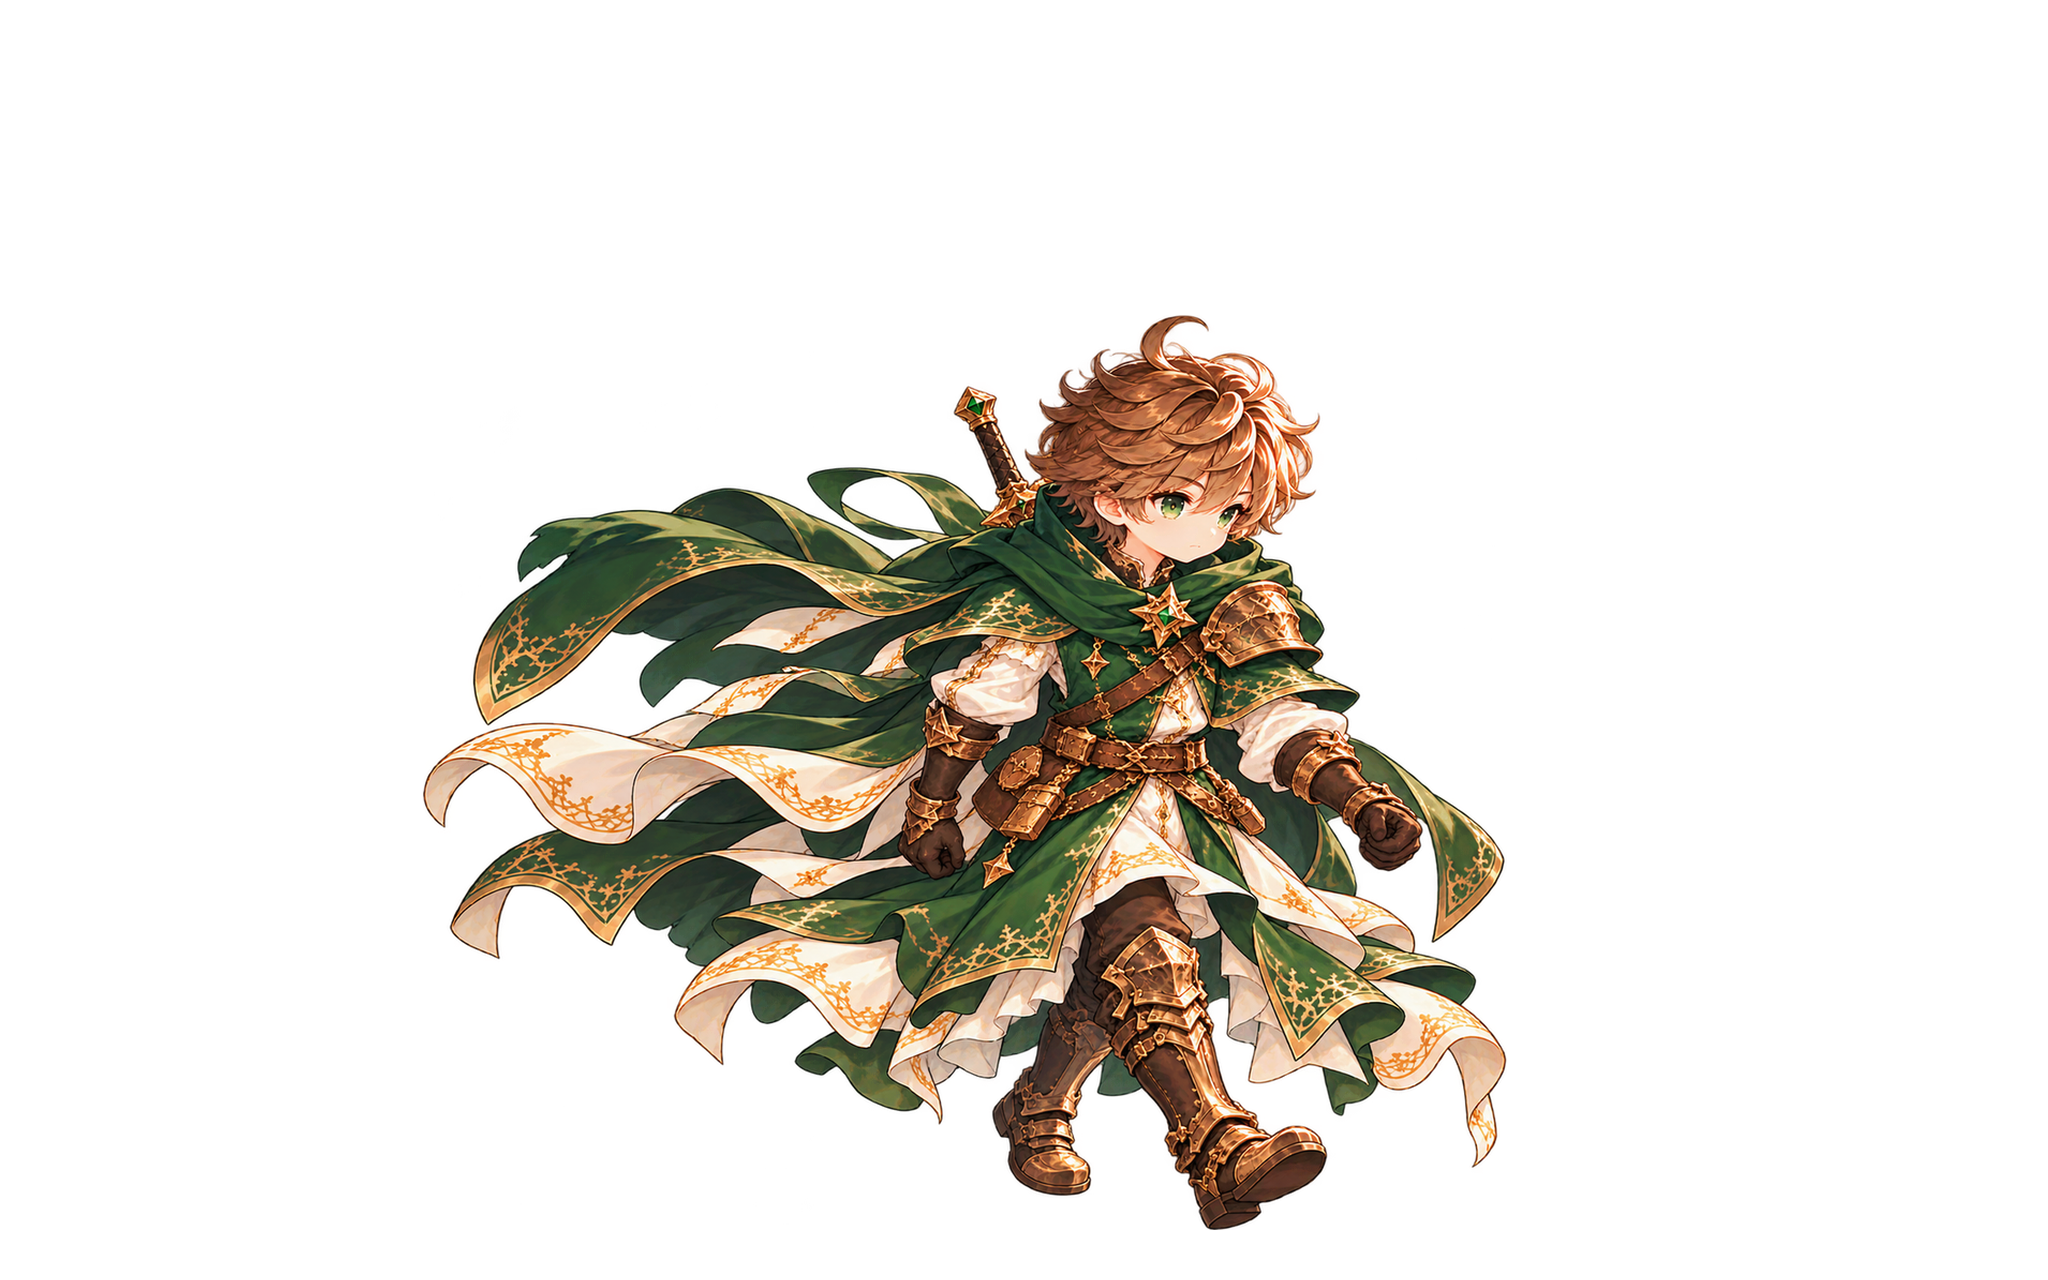
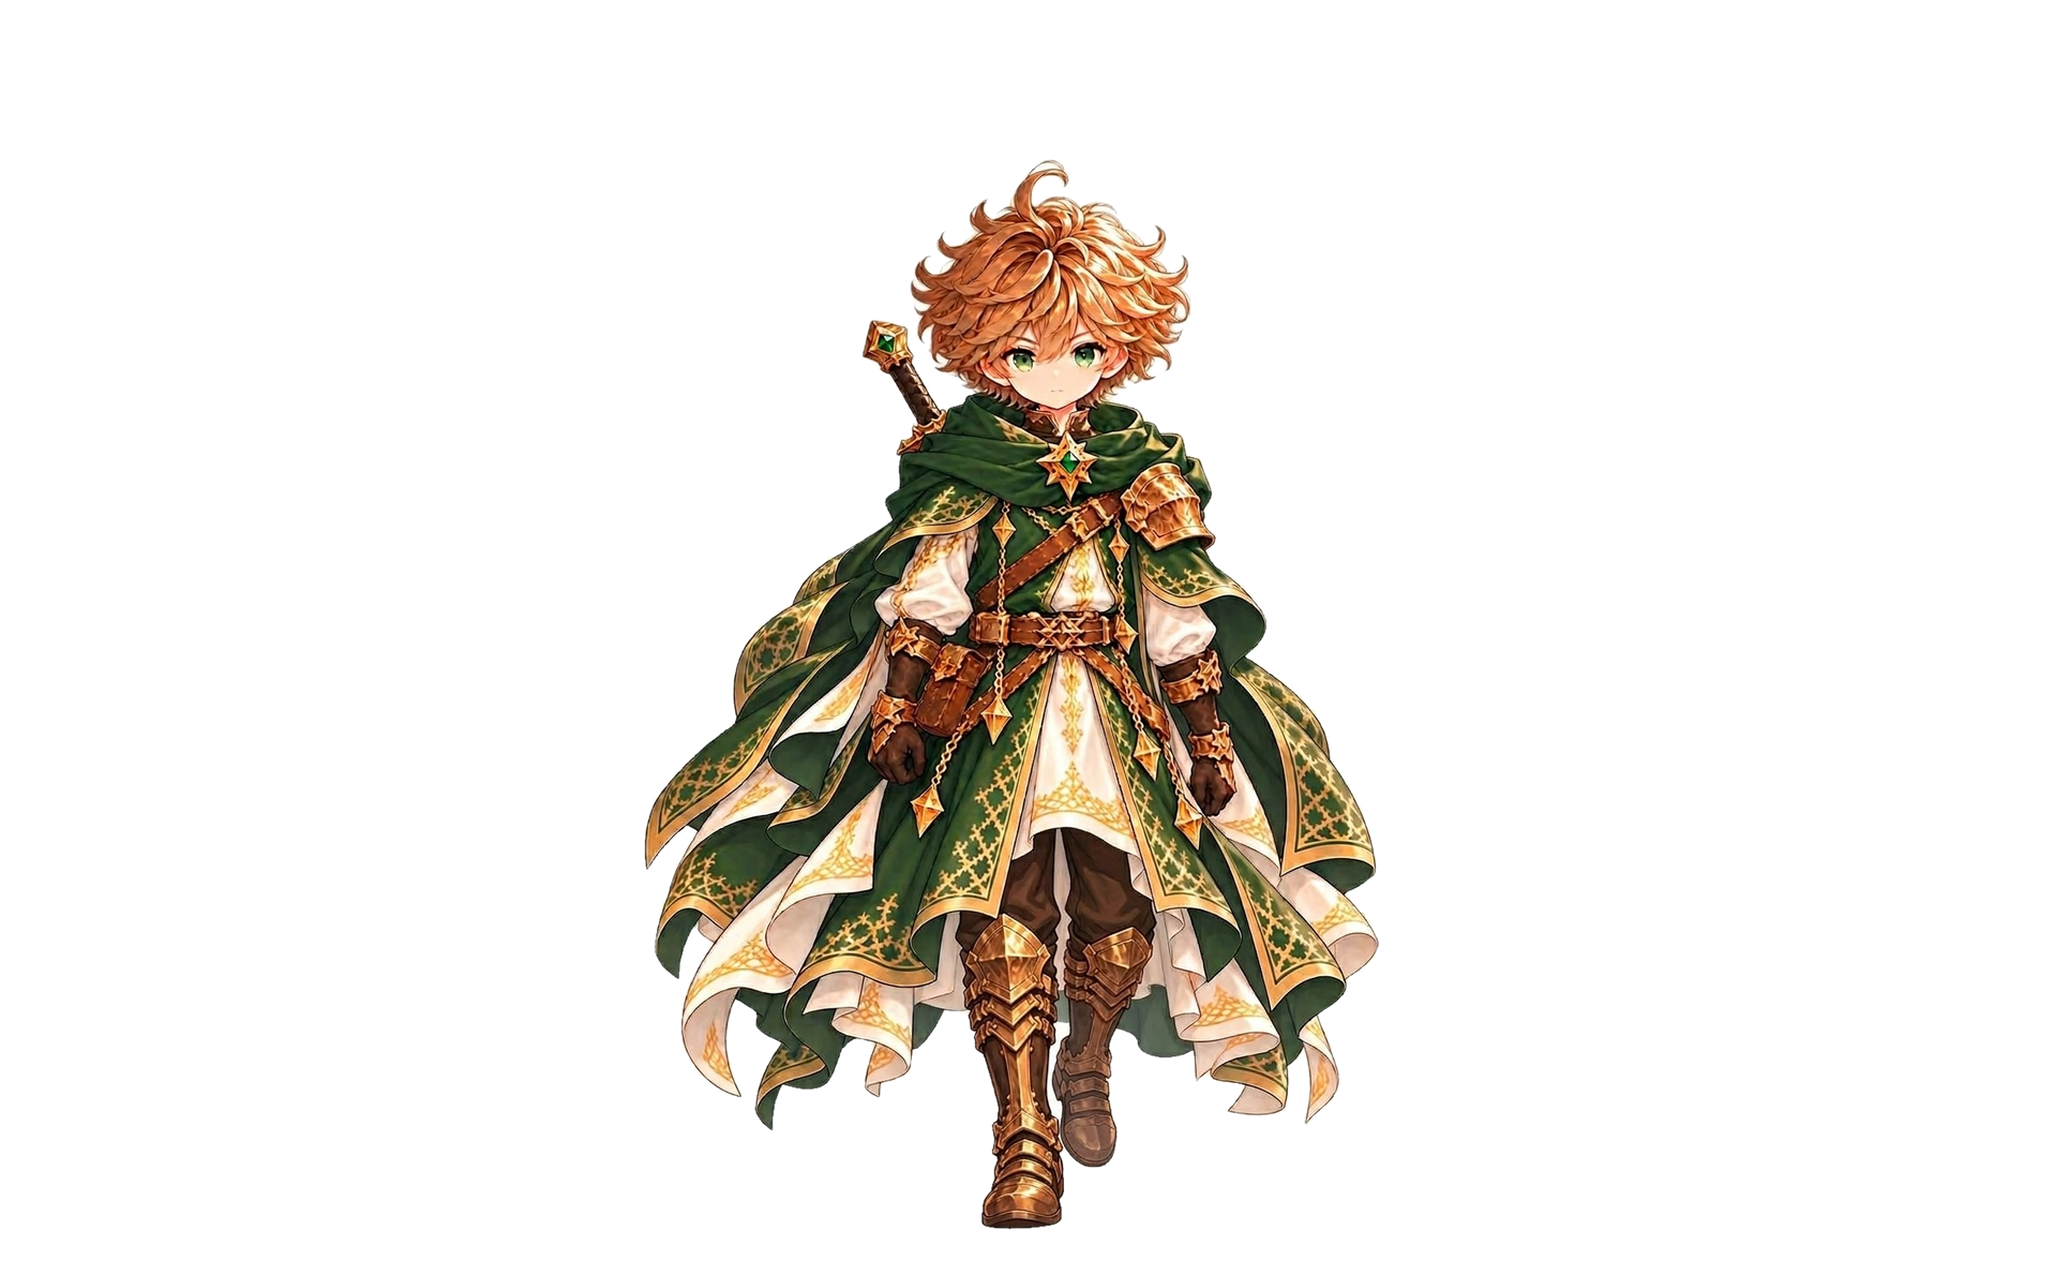
Aidan: new front/back walk art (down 3 distinct+mirror, up 6-frame cycle), body-registered
Claude-Session: https://claude.ai/code/session_01KtAepaq115Lcetj5TqkPJk

Changed region(s): [[0.1875, 0.125, 0.75, 0.9688]]

diff --git a/js/field/aidan-field-assets.js b/js/field/aidan-field-assets.js
@@ -4,13 +4,13 @@
   if (!window.WINDBOUND_DEV) return;
   const frames = {
  "aidan_idle_down": {
-  "path": "img/field/characters/aidan/aidan_idle_down.png?v=4e75f464",
+  "path": "img/field/characters/aidan/aidan_idle_down.png?v=002b5f63",
   "width": 2048,
   "height": 1280,
   "bounds": [
-   564,
+   824,
    158,
-   806,
+   389,
    1072
   ],
   "anchor": [
@@ -20,14 +20,14 @@
   "scale": 0.0625
  },
  "aidan_walk_down_01": {
-  "path": "img/field/characters/aidan/aidan_walk_down_01.png?v=bd9b4340",
+  "path": "img/field/characters/aidan/aidan_walk_down_01.png?v=689c4436",
   "width": 2048,
   "height": 1280,
   "bounds": [
-   423,
-   315,
-   1084,
-   915
+   644,
+   158,
+   736,
+   1072
   ],
   "anchor": [
    1024,
@@ -36,14 +36,14 @@
   "scale": 0.0625
  },
  "aidan_walk_down_02": {
-  "path": "img/field/characters/aidan/aidan_walk_down_02.png?v=b9389374",
+  "path": "img/field/characters/aidan/aidan_walk_down_02.png?v=002b5f63",
   "width": 2048,
   "height": 1280,
   "bounds": [
-   415,
-   302,
-   1096,
-   928
+   824,
+   158,
+   389,
+   1072
   ],
   "anchor": [
    1024,
@@ -52,14 +52,14 @@
   "scale": 0.0625
  },
  "aidan_walk_down_03": {
-  "path": "img/field/characters/aidan/aidan_walk_down_03.png?v=1c19bfae",
+  "path": "img/field/characters/aidan/aidan_walk_down_03.png?v=b0c6dd2d",
   "width": 2048,
   "height": 1280,
   "bounds": [
-   389,
-   313,
-   1083,
-   917
+   646,
+   158,
+   736,
+   1072
   ],
   "anchor": [
    1024,
@@ -68,14 +68,14 @@
   "scale": 0.0625
  },
  "aidan_walk_down_04": {
-  "path": "img/field/characters/aidan/aidan_walk_down_04.png?v=b9389374",
+  "path": "img/field/characters/aidan/aidan_walk_down_04.png?v=002b5f63",
   "width": 2048,
   "height": 1280,
   "bounds": [
-   415,
-   302,
-   1096,
-   928
+   824,
+   158,
+   389,
+   1072
   ],
   "anchor": [
    1024,
@@ -244,14 +244,14 @@
   "scale": 0.0625
  },
  "aidan_idle_up": {
-  "path": "img/field/characters/aidan/aidan_idle_up.png?v=219fe120",
+  "path": "img/field/characters/aidan/aidan_idle_up.png?v=c94ba03c",
   "width": 2048,
   "height": 1280,
   "bounds": [
-   671,
-   303,
-   1096,
-   927
+   660,
+   158,
+   702,
+   1072
   ],
   "anchor": [
    1024,
@@ -260,14 +260,14 @@
   "scale": 0.0625
  },
  "aidan_walk_up_01": {
-  "path": "img/field/characters/aidan/aidan_walk_up_01.png?v=219fe120",
+  "path": "img/field/characters/aidan/aidan_walk_up_01.png?v=7e0c4efd",
   "width": 2048,
   "height": 1280,
   "bounds": [
-   671,
-   303,
-   1096,
-   927
+   447,
+   158,
+   1069,
+   1072
   ],
   "anchor": [
    1024,
@@ -276,14 +276,14 @@
   "scale": 0.0625
  },
  "aidan_walk_up_02": {
-  "path": "img/field/characters/aidan/aidan_walk_up_02.png?v=f413f796",
+  "path": "img/field/characters/aidan/aidan_walk_up_02.png?v=bb9083a6",
   "width": 2048,
   "height": 1280,
   "bounds": [
-   992,
-   148,
-   593,
-   1082
+   492,
+   158,
+   1012,
+   1072
   ],
   "anchor": [
    1024,
@@ -292,14 +292,14 @@
   "scale": 0.0625
  },
  "aidan_walk_up_03": {
-  "path": "img/field/characters/aidan/aidan_walk_up_03.png?v=219fe120",
+  "path": "img/field/characters/aidan/aidan_walk_up_03.png?v=c94ba03c",
   "width": 2048,
   "height": 1280,
   "bounds": [
-   671,
-   303,
-   1096,
-   927
+   660,
+   158,
+   702,
+   1072
   ],
   "anchor": [
    1024,
@@ -308,14 +308,46 @@
   "scale": 0.0625
  },
  "aidan_walk_up_04": {
-  "path": "img/field/characters/aidan/aidan_walk_up_04.png?v=a3fcbe12",
+  "path": "img/field/characters/aidan/aidan_walk_up_04.png?v=ae206b39",
   "width": 2048,
   "height": 1280,
   "bounds": [
-   952,
-   152,
-   655,
-   1078
+   580,
+   158,
+   845,
+   1072
+  ],
+  "anchor": [
+   1024,
+   1230
+  ],
+  "scale": 0.0625
+ },
+ "aidan_walk_up_05": {
+  "path": "img/field/characters/aidan/aidan_walk_up_05.png?v=83232452",
+  "width": 2048,
+  "height": 1280,
+  "bounds": [
+   728,
+   158,
+   705,
+   1072
+  ],
+  "anchor": [
+   1024,
+   1230
+  ],
+  "scale": 0.0625
+ },
+ "aidan_walk_up_06": {
+  "path": "img/field/characters/aidan/aidan_walk_up_06.png?v=bd86f172",
+  "width": 2048,
+  "height": 1280,
+  "bounds": [
+   679,
+   158,
+   689,
+   1072
   ],
   "anchor": [
    1024,

diff --git a/index.html b/index.html
@@ -1963,7 +1963,7 @@ const v54SR=startRaiderBattle;startRaiderBattle=function(){v54SR();requestAnimat
 <script src="js/field/lind-npcs.js"></script>
 <script src="js/field/lind-birds.js"></script>
 <link rel="stylesheet" href="css/aidan-field.css">
-<script src="js/field/aidan-field-assets.js?v=20261012z"></script>
+<script src="js/field/aidan-field-assets.js?v=20261012fb"></script>
 <script src="js/field/aidan-field-actor.js"></script>
 <script src="js/field/lind-terrain-layout.js"></script>
 <script src="js/field/lind-terrain-blend.js"></script>
